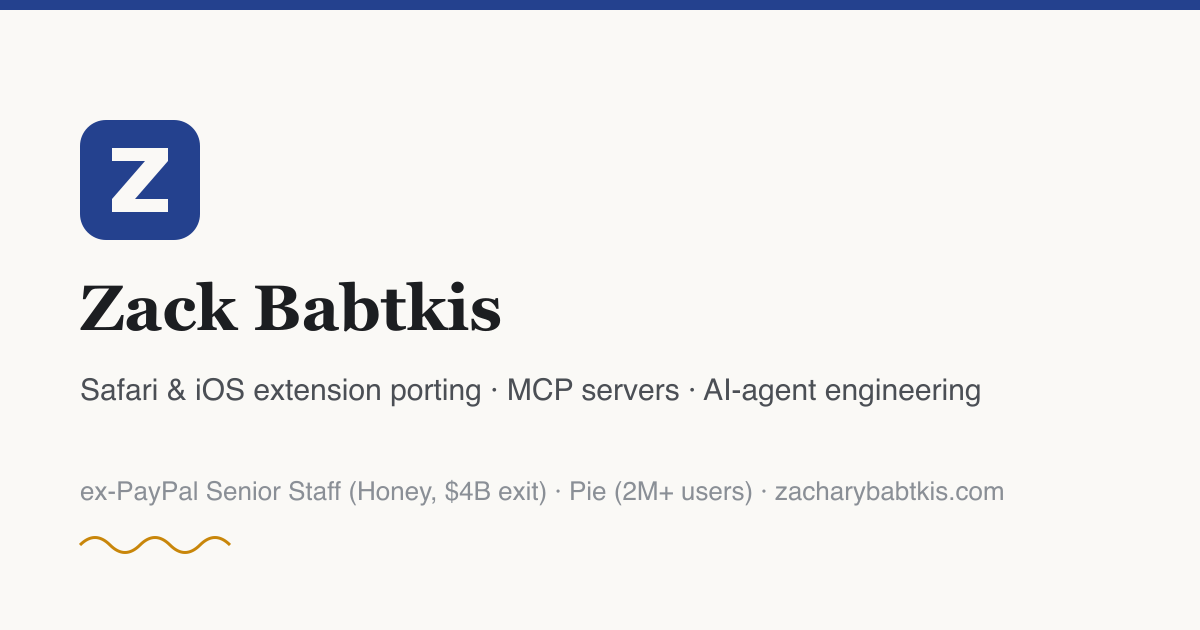
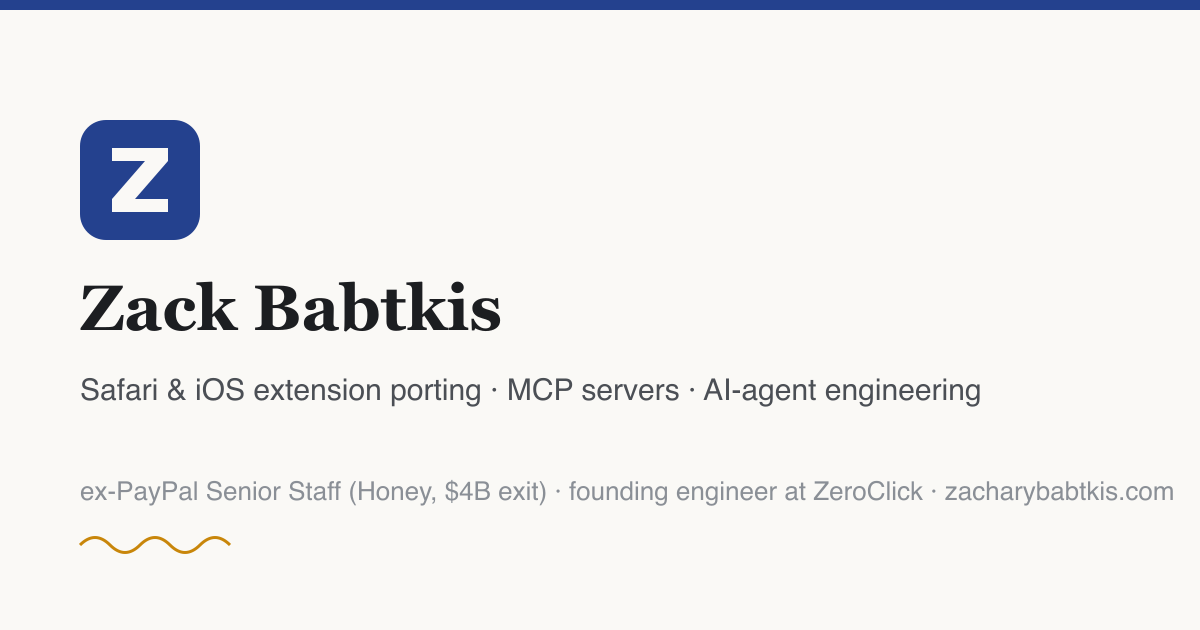
fix: refer to the company as zeroclick; pie reserved for the product

Changed region(s): [[0.4625, 0.754, 0.9867, 0.8143]]

diff --git a/app/safari-extensions/page.tsx b/app/safari-extensions/page.tsx
@@ -44,7 +44,7 @@ export default function SafariExtensionsPage() {
               Apple&rsquo;s converter gives you an Xcode project that
               compiles — not a working extension, and not App Store
               approval. That part is the real work, and I&rsquo;ve done it
-              at Honey and at Pie.
+              at Honey and at ZeroClick.
             </p>
             <div className="hero-actions">
               <a className="button" href="#offer">
@@ -88,7 +88,7 @@ export default function SafariExtensionsPage() {
             'App Store review keeps rejecting us, and the citations explain nothing.',
             'Users keep asking when we’re coming to Safari. We keep not answering.',
           ]}
-          close="I've hit every one of these already — first at Honey, then again at Pie."
+          close="I've hit every one of these already — first at Honey, then again at ZeroClick."
         />
       </Chapter>
 
@@ -97,9 +97,10 @@ export default function SafariExtensionsPage() {
           <p>
             At Honey I built the company&rsquo;s first iOS browser extension
             and ported its legacy Safari extension to Apple&rsquo;s modern
-            API. At Pie I owned everything Safari and iOS — Swift app
-            shells, Xcode Cloud deployment, and the content-blocking work
-            Safari forces through DeclarativeNetRequest. I&rsquo;ve also
+            API. At ZeroClick I owned Safari and iOS
+            for its Pie ad blocker — Swift app shells, Xcode Cloud
+            deployment, and the content-blocking work Safari forces through
+            DeclarativeNetRequest. I&rsquo;ve also
             taken an iOS Safari extension through App Review alone:{' '}
             <a href="https://www.tapsmart.com/features/content-blockers-guide/">Unhabit</a>, a distraction blocker I designed,
             built, and shipped end to end — TapSmart called it &ldquo;much
@@ -211,7 +212,7 @@ export default function SafariExtensionsPage() {
           {
             question: 'Our extension uses webRequest to block or modify traffic. Is a port even possible?',
             answer:
-              'Usually, but as a redesign rather than a translation — Safari requires DeclarativeNetRequest. I shipped this migration at Pie. The assessment tells you what survives, what needs redesign, and what doesn’t make it.',
+              'Usually, but as a redesign rather than a translation — Safari requires DeclarativeNetRequest. I shipped this migration for Pie Adblock. The assessment tells you what survives, what needs redesign, and what doesn’t make it.',
           },
           {
             question: 'How long does a full port take?',

diff --git a/app/safari-extensions/dynamic-dnr-rules/page.tsx b/app/safari-extensions/dynamic-dnr-rules/page.tsx
@@ -38,7 +38,7 @@ export default function DynamicDnrRulesPage() {
         },
       ]}
       ctaTitle="Porting runtime rule management to Safari?"
-      ctaBody="I ran this system in production at Pie, an ad blocker with two million users whose pause, allowlist, and partnership features all drew from one dynamic-rule pool across Chrome and Safari. The Safari port assessment is $2,500, credited toward follow-on work: I inventory your dynamic-rule usage, flag every rule Safari will drop, rewrite, or split, and hand you a fixed quote for the port."
+      ctaBody="I ran this system in production on Pie Adblock, ZeroClick's two-million-user ad blocker, whose pause, allowlist, and partnership features all drew from one dynamic-rule pool across Chrome and Safari. The Safari port assessment is $2,500, credited toward follow-on work: I inventory your dynamic-rule usage, flag every rule Safari will drop, rewrite, or split, and hand you a fixed quote for the port."
       ctaEmailSubject="Safari Port Assessment — dynamic DNR rules"
       ctaSource="dynamic-dnr-article"
     >
@@ -102,7 +102,7 @@ export default function DynamicDnrRulesPage() {
         removes &ldquo;the rules for this domain,&rdquo; it tears down the
         user&rsquo;s pause along with its own — and silently re-enables
         blocking the user explicitly turned off. We hit exactly this class
-        of bug at Pie: a partnership feature that auto-paused blocking on
+        of bug on Pie Adblock: a partnership feature that auto-paused blocking on
         specific sites had to check for an existing user pause first,
         because its automatic re-arm would otherwise have flipped the
         blocker back on about ten seconds after the user turned it off.
@@ -143,7 +143,7 @@ export default function DynamicDnrRulesPage() {
       <h2>Safari changes what your rules mean</h2>
       <p>
         The same rule JSON does not mean the same thing in Safari. Our
-        conversion layer at Pie handled, among other things:{' '}
+        conversion layer on Pie Adblock handled, among other things:{' '}
         <code>initiatorDomains</code> translated to the older{' '}
         <code>domains</code> key; <code>allowAllRequests</code> rules
         with domain filters dropped entirely, because Safari didn&rsquo;t

diff --git a/app/ai-agent-enablement/page.tsx b/app/ai-agent-enablement/page.tsx
@@ -39,9 +39,9 @@ export default function AiAgentEnablementPage() {
               agents. I&rsquo;ve actually done it.
             </h1>
             <p className="lede">
-              At Pie, a company with two million users, I built and shipped
-              a production product where AI agents wrote the entire
-              codebase. It wasn&rsquo;t a prototype. It made money, I owned
+              At ZeroClick — the company behind the two-million-user Pie
+              ad blocker — I built and shipped a production product where
+              AI agents wrote the entire codebase. It wasn&rsquo;t a prototype. It made money, I owned
               it end to end, and the agents worked inside a harness I
               engineered. Most AI consultants learned this from a course. I
               learned it by shipping.
@@ -91,7 +91,7 @@ export default function AiAgentEnablementPage() {
 
       <StatBand
         stats={[
-          { value: '100%', label: 'of the codebase agent-built on the product I shipped at Pie' },
+          { value: '100%', label: 'of the codebase agent-built on the product I shipped at ZeroClick' },
           {
             value: '10 wks',
             label: 'pie.yt from first commit to public launch, agents writing the code',
@@ -105,7 +105,7 @@ export default function AiAgentEnablementPage() {
         <div className="story">
           <p>
             In 2025 I built <a href={RECEIPTS.pieYt}>pie.yt</a>, an ad-free
-            YouTube viewer, still live, as Pie&rsquo;s first product
+            YouTube viewer, still live, as ZeroClick&rsquo;s first product
             developed entirely through what we called{' '}
             <strong>harness engineering</strong>: instead of writing the
             code, I engineered the environment — the conventions, context

diff --git a/app/page.tsx b/app/page.tsx
@@ -47,7 +47,7 @@ export default function HomePage() {
             </h1>
             <p className="lede">
               I&rsquo;m Zack Babtkis — ex-PayPal Senior Staff, founding
-              engineer at Pie. I build websites, apps, and browser
+              engineer at ZeroClick. I build websites, apps, and browser
               extensions — and the infrastructure and integrations for
               agentic AI.
             </p>
@@ -160,8 +160,9 @@ export default function HomePage() {
             <h3>AI-agent enablement for engineering teams</h3>
             <p>
               Your team has the AI tools and little shipped to show for
-              it. At Pie I shipped a product where AI agents wrote the whole
-              codebase — I&rsquo;ll set your team up to work that way.
+              it. At ZeroClick I shipped a product where AI agents wrote
+              the whole codebase — I&rsquo;ll set your team up to work that
+              way.
             </p>
             <span className="card-cta">Agent-readiness audit · $3,000</span>
           </Link>

diff --git a/app/safari-extensions/main-world-scripts/page.tsx b/app/safari-extensions/main-world-scripts/page.tsx
@@ -61,9 +61,9 @@ export default function MainWorldScriptsPage() {
         coordination problem: MAIN-world code has no extension APIs, and your
         background worker can&rsquo;t reach page variables. The two halves
         have to talk through a channel both can reach. I built and maintained
-        this arrangement in a Safari and Chrome ad blocker with over two
-        million users at Pie, where I owned the iOS and Safari extension
-        domain. The patterns below are what survived production.
+        this arrangement in Pie Adblock, ZeroClick&rsquo;s Safari and
+        Chrome ad blocker with over two million users, where I owned the
+        iOS and Safari extension domain. The patterns below are what survived production.
       </p>
 
       <h2>What each world can see</h2>

diff --git a/app/safari-extensions/convert-chrome-extension-to-safari/page.tsx b/app/safari-extensions/convert-chrome-extension-to-safari/page.tsx
@@ -51,8 +51,8 @@ export default function ConvertGuidePage() {
         I&rsquo;ve done this work twice at production scale — at Honey,
         where I built the company&rsquo;s first iOS browser extension and
         ported the legacy Safari extension to Apple&rsquo;s modern API, and
-        at Pie, where I owned Safari and iOS for an ad blocker with two
-        million users. This guide is the map I wish I&rsquo;d had: what the
+        at ZeroClick, where I owned Safari and iOS for its
+        two-million-user Pie ad blocker. This guide is the map I wish I&rsquo;d had: what the
         converter actually does, what breaks, and what the real work looks
         like.
       </p>

diff --git a/app/safari-extensions/spa-page-identity/page.tsx b/app/safari-extensions/spa-page-identity/page.tsx
@@ -52,8 +52,8 @@ export default function SpaPageIdentityPage() {
         changed. Your code never ran again.
       </p>
       <p>
-        I dealt with this at Pie, an ad blocker with over two million
-        users, where I led a feature that had to behave differently
+        I dealt with this on Pie Adblock, ZeroClick&rsquo;s ad blocker
+        with over two million users, where I led a feature that had to behave differently
         depending on whose video was playing on YouTube or Twitch.
         Extracting the identity was the easy part. Keeping it correct
         across client-side navigation was most of the work, and the

diff --git a/lib/site.ts b/lib/site.ts
@@ -3,7 +3,7 @@ export const SITE = {
   name: 'Zack Babtkis',
   title: 'Zack Babtkis — Engineering for Browsers and Agentic AI',
   description:
-    'Independent engineer, ex-PayPal Senior Staff (Honey), founding engineer at Pie. Websites, apps, browser extensions, and infrastructure and integrations for agentic AI.',
+    'Independent engineer, ex-PayPal Senior Staff (Honey), founding engineer at ZeroClick. Websites, apps, browser extensions, and infrastructure and integrations for agentic AI.',
   email: 'zackbabtkis@gmail.com',
   linkedin: 'https://www.linkedin.com/in/zacharybabtkis',
   github: 'https://github.com/zbabtkis',

diff --git a/app/poc-to-production/page.tsx b/app/poc-to-production/page.tsx
@@ -114,7 +114,7 @@ export default function PocToProductionPage() {
           <p>
             Most senior engineers will tell you to throw the prototype away
             and quote you a six-figure rebuild. I won&rsquo;t, for two
-            reasons. First, I build with AI agents every day — at Pie I
+            reasons. First, I build with AI agents every day — at ZeroClick I
             shipped <a href={RECEIPTS.pieYt}>pie.yt</a>, a production
             product whose entire codebase was agent-written, so I know
             exactly what AI-built code gets right, where it cuts corners,

diff --git a/components/article.tsx b/components/article.tsx
@@ -55,7 +55,7 @@ export function ArticleLayout({
           <p className="article-meta">
             By Zack Babtkis —{' '}
             {byline ??
-              'I shipped Safari and iOS extensions at Honey and Pie'}{' '}
+              'I shipped Safari and iOS extensions at Honey and ZeroClick'}{' '}
             · Updated{' '}
             {new Date(dateModified ?? datePublished).toLocaleDateString(
               'en-US',
